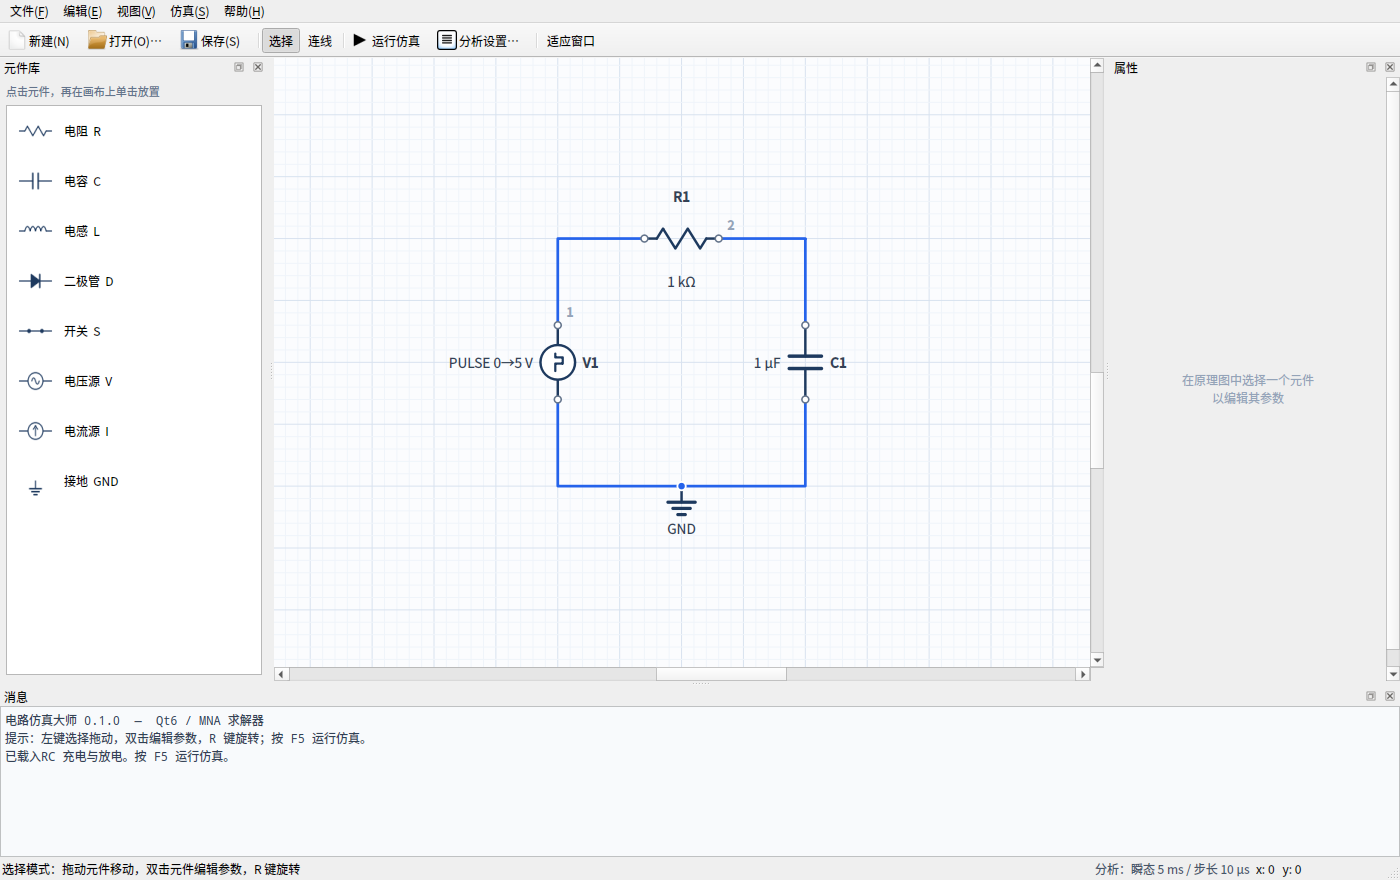
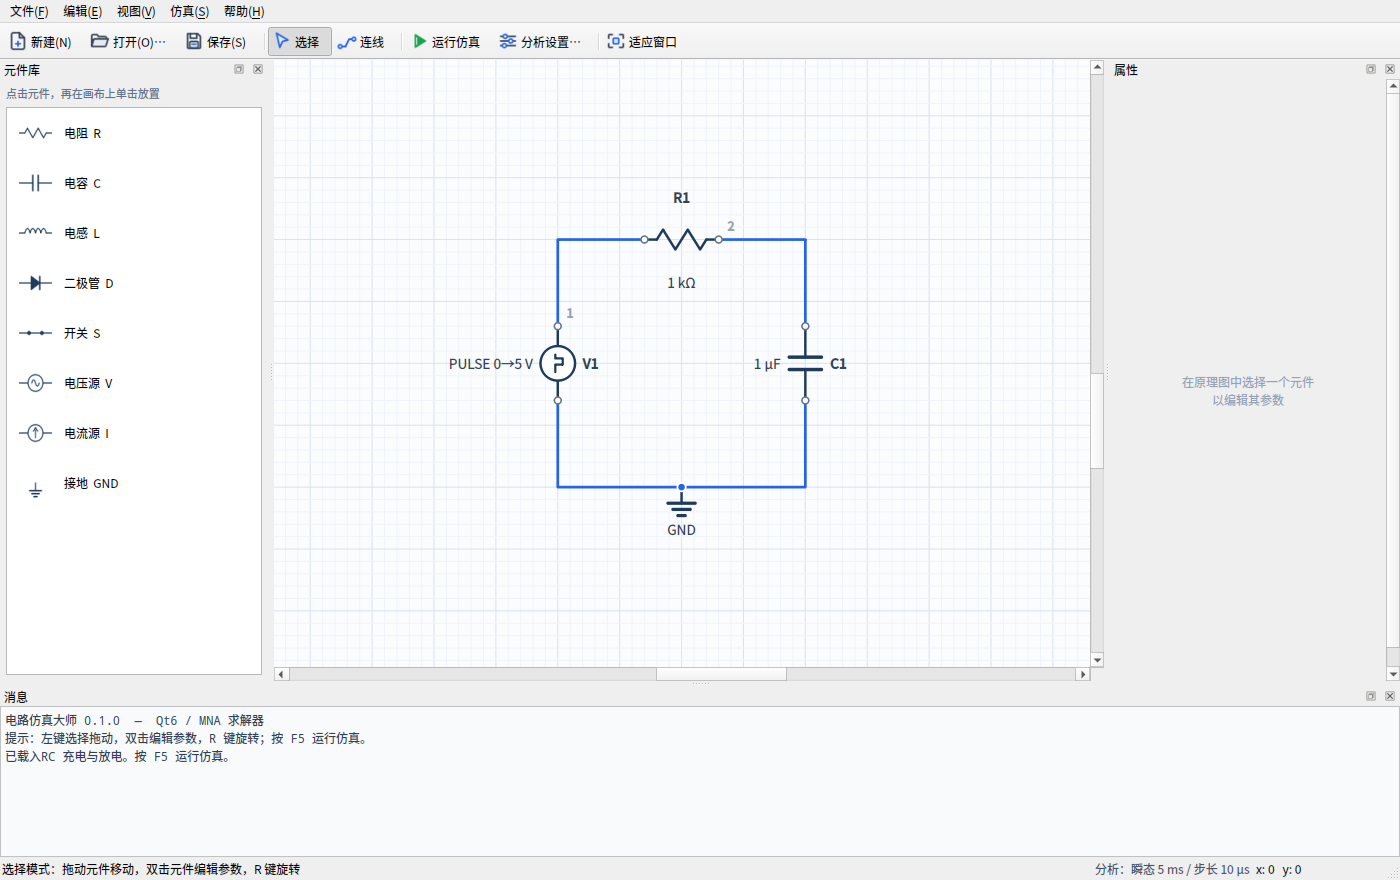
feat(ui): 工具栏与菜单启用自定义 SVG 图标
- 新增 12 枚 24×24 线性 SVG 图标，统一 1.8px 描边与蓝/绿点缀配色：
  新建、打开、保存、选择、连线、运行、分析设置、放大、缩小、适应窗口、删除、网格
- 图标资源挂到 csm_ui 静态库，应用与测试共享，避免资源只链接到可执行文件时
  测试侧无法加载
- 补充图标资源与位图渲染测试，防止“资源存在但渲染为 0×0”的回归

diff --git a/src/ui/MainWindow.cpp b/src/ui/MainWindow.cpp
@@ -188,9 +188,13 @@ Circuit exampleAcLowpass()
     return circuit;
 }
 
-QIcon themedIcon(const QString& name, QStyle::StandardPixmap fallback)
+/// 优先使用内置 SVG 图标，缺失时回退到系统主题图标。
+QIcon actionIcon(const QString& name, const QString& themeName, QStyle::StandardPixmap fallback)
 {
-    QIcon icon = QIcon::fromTheme(name);
+    QIcon icon(QStringLiteral(":/icons/%1.svg").arg(name));
+    if (!icon.isNull())
+        return icon;
+    icon = QIcon::fromTheme(themeName);
     if (icon.isNull())
         icon = qApp->style()->standardIcon(fallback);
     return icon;
@@ -257,16 +261,21 @@ MainWindow::MainWindow(QWidget* parent)
 
 void MainWindow::createActions()
 {
-    m_actNew = new QAction(themedIcon(QStringLiteral("document-new"), QStyle::SP_FileIcon),
-                           QStringLiteral("新建(&N)"), this);
+    m_actNew = new QAction(
+        actionIcon(QStringLiteral("new"), QStringLiteral("document-new"), QStyle::SP_FileIcon),
+        QStringLiteral("新建(&N)"), this);
     m_actNew->setShortcut(QKeySequence::New);
 
-    m_actOpen = new QAction(themedIcon(QStringLiteral("document-open"), QStyle::SP_DialogOpenButton),
-                            QStringLiteral("打开(&O)…"), this);
+    m_actOpen = new QAction(
+        actionIcon(QStringLiteral("open"), QStringLiteral("document-open"),
+                   QStyle::SP_DialogOpenButton),
+        QStringLiteral("打开(&O)…"), this);
     m_actOpen->setShortcut(QKeySequence::Open);
 
-    m_actSave = new QAction(themedIcon(QStringLiteral("document-save"), QStyle::SP_DialogSaveButton),
-                            QStringLiteral("保存(&S)"), this);
+    m_actSave = new QAction(
+        actionIcon(QStringLiteral("save"), QStringLiteral("document-save"),
+                   QStyle::SP_DialogSaveButton),
+        QStringLiteral("保存(&S)"), this);
     m_actSave->setShortcut(QKeySequence::Save);
 
     m_actSaveAs = new QAction(QStringLiteral("另存为(&A)…"), this);
@@ -278,8 +287,9 @@ void MainWindow::createActions()
     m_actQuit = new QAction(QStringLiteral("退出(&Q)"), this);
     m_actQuit->setShortcut(QKeySequence::Quit);
 
-    m_actDelete = new QAction(themedIcon(QStringLiteral("edit-delete"), QStyle::SP_TrashIcon),
-                              QStringLiteral("删除"), this);
+    m_actDelete = new QAction(
+        actionIcon(QStringLiteral("delete"), QStringLiteral("edit-delete"), QStyle::SP_TrashIcon),
+        QStringLiteral("删除"), this);
     m_actDelete->setShortcut(QKeySequence::Delete);
 
     m_actRotate = new QAction(QStringLiteral("旋转 90°"), this);
@@ -289,18 +299,25 @@ void MainWindow::createActions()
     m_actSelectAll = new QAction(QStringLiteral("全选"), this);
     m_actSelectAll->setShortcut(QKeySequence::SelectAll);
 
-    m_actZoomIn = new QAction(themedIcon(QStringLiteral("zoom-in"), QStyle::SP_ArrowUp),
-                              QStringLiteral("放大"), this);
+    m_actZoomIn = new QAction(
+        actionIcon(QStringLiteral("zoom_in"), QStringLiteral("zoom-in"), QStyle::SP_ArrowUp),
+        QStringLiteral("放大"), this);
     m_actZoomIn->setShortcut(QKeySequence::ZoomIn);
 
-    m_actZoomOut = new QAction(themedIcon(QStringLiteral("zoom-out"), QStyle::SP_ArrowDown),
-                               QStringLiteral("缩小"), this);
+    m_actZoomOut = new QAction(
+        actionIcon(QStringLiteral("zoom_out"), QStringLiteral("zoom-out"), QStyle::SP_ArrowDown),
+        QStringLiteral("缩小"), this);
     m_actZoomOut->setShortcut(QKeySequence::ZoomOut);
 
-    m_actZoomFit = new QAction(QStringLiteral("适应窗口"), this);
+    m_actZoomFit = new QAction(
+        actionIcon(QStringLiteral("zoom_fit"), QStringLiteral("zoom-fit-best"),
+                   QStyle::SP_FileDialogContentsView),
+        QStringLiteral("适应窗口"), this);
     m_actZoomFit->setShortcut(QKeySequence(QStringLiteral("Ctrl+0")));
 
-    m_actGrid = new QAction(QStringLiteral("显示网格"), this);
+    m_actGrid = new QAction(
+        actionIcon(QStringLiteral("grid"), QStringLiteral("view-grid"), QStyle::SP_FileDialogListView),
+        QStringLiteral("显示网格"), this);
     m_actGrid->setCheckable(true);
     m_actGrid->setChecked(true);
 
@@ -308,21 +325,27 @@ void MainWindow::createActions()
     m_actNodeNumbers->setCheckable(true);
     m_actNodeNumbers->setChecked(true);
 
-    m_actRun = new QAction(themedIcon(QStringLiteral("media-playback-start"), QStyle::SP_MediaPlay),
-                           QStringLiteral("运行仿真"), this);
+    m_actRun = new QAction(
+        actionIcon(QStringLiteral("run"), QStringLiteral("media-playback-start"), QStyle::SP_MediaPlay),
+        QStringLiteral("运行仿真"), this);
     m_actRun->setShortcut(QKeySequence(Qt::Key_F5));
 
     m_actSettings = new QAction(
-        themedIcon(QStringLiteral("preferences-system"), QStyle::SP_FileDialogDetailedView),
+        actionIcon(QStringLiteral("settings"), QStringLiteral("preferences-system"),
+                   QStyle::SP_FileDialogDetailedView),
         QStringLiteral("分析设置…"), this);
 
-    m_actSelectTool = new QAction(QStringLiteral("选择"), this);
+    m_actSelectTool = new QAction(
+        actionIcon(QStringLiteral("select"), QStringLiteral("edit-select"), QStyle::SP_ArrowUp),
+        QStringLiteral("选择"), this);
     m_actSelectTool->setCheckable(true);
     m_actSelectTool->setChecked(true);
     m_actSelectTool->setShortcut(QKeySequence(Qt::Key_V));
     m_actSelectTool->setToolTip(QStringLiteral("选择/移动元件 (V)"));
 
-    m_actWireTool = new QAction(QStringLiteral("连线"), this);
+    m_actWireTool = new QAction(
+        actionIcon(QStringLiteral("wire"), QStringLiteral("draw-line"), QStyle::SP_ArrowRight),
+        QStringLiteral("连线"), this);
     m_actWireTool->setCheckable(true);
     m_actWireTool->setShortcut(QKeySequence(Qt::Key_W));
     m_actWireTool->setToolTip(QStringLiteral("绘制导线 (W)"));
@@ -431,7 +454,7 @@ void MainWindow::createToolBar()
 {
     QToolBar* bar = addToolBar(QStringLiteral("主工具栏"));
     bar->setMovable(false);
-    bar->setIconSize(QSize(20, 20));
+    bar->setIconSize(QSize(22, 22));
     bar->setToolButtonStyle(Qt::ToolButtonTextBesideIcon);
 
     bar->addAction(m_actNew);

diff --git a/tests/test_ui.cpp b/tests/test_ui.cpp
@@ -12,6 +12,7 @@
 #include <QDir>
 #include <QFileInfo>
 #include <QPixmap>
+#include <QIcon>
 #include <QLineEdit>
 #include <QSet>
 #include <QTest>
@@ -22,6 +23,44 @@ class UiTest : public QObject {
     Q_OBJECT
 
 private slots:
+    void toolbarIconsAvailable()
+    {
+        const QStringList names = {QStringLiteral("new"),    QStringLiteral("open"),
+                                   QStringLiteral("save"),   QStringLiteral("select"),
+                                   QStringLiteral("wire"),   QStringLiteral("run"),
+                                   QStringLiteral("settings"), QStringLiteral("zoom_in"),
+                                   QStringLiteral("zoom_out"), QStringLiteral("zoom_fit"),
+                                   QStringLiteral("delete"), QStringLiteral("grid")};
+        for (const QString& name : names) {
+            const QIcon icon(QStringLiteral(":/icons/%1.svg").arg(name));
+            QVERIFY2(!icon.isNull(), qPrintable(QStringLiteral("缺少图标: ") + name));
+
+            // 资源存在不代表能渲染：检查生成的位图确实有像素
+            const QImage image = icon.pixmap(22, 22).toImage();
+            int opaque = 0;
+            for (int y = 0; y < image.height(); ++y) {
+                for (int x = 0; x < image.width(); ++x) {
+                    if (qAlpha(image.pixel(x, y)) > 0)
+                        ++opaque;
+                }
+            }
+            QVERIFY2(opaque > 0, qPrintable(QStringLiteral("图标渲染为空: ") + name));
+        }
+
+        MainWindow window;
+        window.resize(1200, 800);
+        window.show();
+        QTest::qWait(200);
+
+        QAction* wireAction = nullptr;
+        for (QAction* action : window.findChildren<QAction*>()) {
+            if (action->text() == QStringLiteral("连线"))
+                wireAction = action;
+        }
+        QVERIFY(wireAction);
+        QVERIFY(!wireAction->icon().isNull());
+    }
+
     void captureMainWindow()
     {
         MainWindow window;
